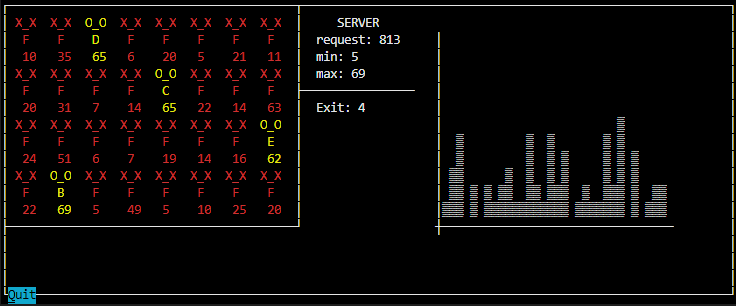
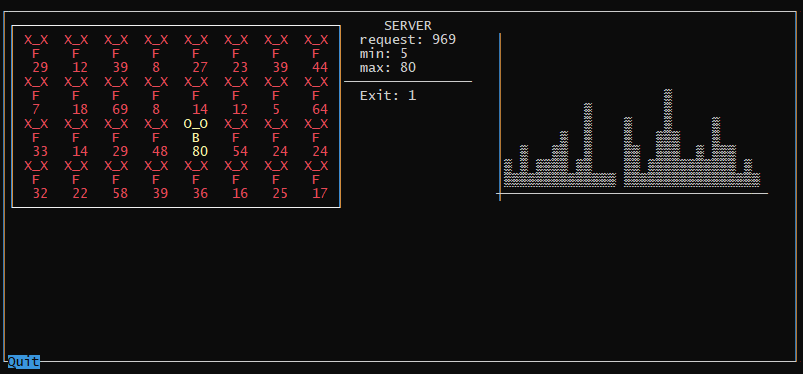
reduce screen flicker, fix resize

diff --git a/main.py b/main.py
@@ -1,5 +1,4 @@
 import curses
-import os
 from multiprocessing import Queue
 import signal
 import sys
@@ -28,76 +27,88 @@ class MainWindow:
         curses.init_pair(4, curses.COLOR_WHITE, curses.COLOR_BLUE)
         curses.curs_set(False)
         self.screen.nodelay(True)
+        self.createwin()
+
+        from base64 import b64decode
+        self.f_mesage = b64decode("UHJlc3MgRiB0byBQYXkgUmVzcGVjdHM=")
+
+    def createwin(self):
+        self.win = curses.newwin(5, 30, 5, 7)
+        self.win.bkgd(' ', curses.color_pair(4) | curses.A_BOLD)
+        self.clients = curses.newwin(14, 42, 1, 1)
+        self.clients.bkgd(' ', curses.color_pair(0) | curses.A_BOLD)
 
     def start(self):
+        curses.update_lines_cols()
+        line, cols = curses.LINES, curses.COLS
         char = 0
         exit_symbol = [81, 113, 176, 208, 70, 102, 192, 340]
         while char not in exit_symbol:
             char = self.screen.getch()
-            self.paint()
-            time.sleep(.1)
 
-            # All threads completed, close
-            if self.screen_buffer['F_status_count'] == 32:
-                self.f_window()
+            if not self.queue.empty():
+                self.screen_buffer = self.queue.get()
+
+            try:
+                self.paint()
+                self.clients_window()
+                # All threads completed, close
+                if self.screen_buffer['F_status_count'] == 32:
+                    self.f_window()
+            except curses.error:
+                pass
+
+            curses.update_lines_cols()
+            if curses.COLS != cols or curses.LINES != line:
+                line, cols = curses.LINES, curses.COLS
+                self.createwin()
+                self.screen.clear()
+                self.clients.clear()
+                self.win.clear()
+            else:
+                curses.doupdate()
+
+            time.sleep(.1)
 
         signal.alarm(1)
         time.sleep(1)
 
-    def f_window(self):
-        begin_x, begin_y = 6, 4
-        height, width = 5, 30
-        win = curses.newwin(height, width, begin_y, begin_x)
-        win.bkgd(' ', curses.color_pair(4) | curses.A_BOLD)
-        F_msg = "UHJlc3MgRiB0byBQYXkgUmVzcGVjdHM="
-        import base64
-        win.addstr(2, int(width / 2) - 12, base64.b64decode(F_msg), curses.color_pair(4))
-        win.border(0)
-        win.refresh()
-        self.screen.refresh()
+    def f_window(self, ):
+        self.win.addstr(2, 4, self.f_mesage, curses.color_pair(4))
+        self.win.border()
+        self.win.noutrefresh()
 
-    def paint(self):
-        if self.queue.empty():
-            return
-        self.screen_buffer = self.queue.get()
-
-        self.screen.clear()
-        self.screen.keypad(True)
-        self.screen.border()
-        curses.update_lines_cols()
-
-        # satatus processes
-        next_pos = 0
-        next_row = 0
+    def clients_window(self):
+        next_pos, next_row = 0, 0
         for i, clnt in enumerate(self.screen_buffer['clients']):
             X = 0 if self.screen_buffer['clients'][clnt]['count'] > 99 else 1
             if self.screen_buffer['clients'][clnt]['status'] == 'F':
-                self.screen.addstr(1 + next_row, 1 + next_pos, " X_X ", curses.color_pair(1))
-                self.screen.addstr(2 + next_row, 1 + next_pos,
-                                   f"  {self.screen_buffer['clients'][clnt]['status']}  ",
-                                   curses.color_pair(1))
-                self.screen.addstr(3 + next_row, X + next_pos,
-                                   f"  {self.screen_buffer['clients'][clnt]['count']}  ",
-                                   curses.color_pair(1))
+                self.clients.addstr(1 + next_row, 1 + next_pos, " X_X ", curses.color_pair(1))
+                self.clients.addstr(2 + next_row, 1 + next_pos,
+                                    f"  {self.screen_buffer['clients'][clnt]['status']}  ",
+                                    curses.color_pair(1))
+                self.clients.addstr(3 + next_row, X + next_pos,
+                                    f"  {self.screen_buffer['clients'][clnt]['count']}  ",
+                                    curses.color_pair(1))
             else:
-                self.screen.addstr(1 + next_row, 1 + next_pos, " O_O ", curses.color_pair(2))
-                self.screen.addstr(2 + next_row, 1 + next_pos,
-                                   f"  {self.screen_buffer['clients'][clnt]['status']}  ",
-                                   curses.color_pair(2))
-                self.screen.addstr(3 + next_row, X + next_pos,
-                                   f"  {self.screen_buffer['clients'][clnt]['count']}  ",
-                                   curses.color_pair(2))
+                self.clients.addstr(1 + next_row, 1 + next_pos, " O_O ", curses.color_pair(2))
+                self.clients.addstr(2 + next_row, 1 + next_pos,
+                                    f"  {self.screen_buffer['clients'][clnt]['status']}  ",
+                                    curses.color_pair(2))
+                self.clients.addstr(3 + next_row, X + next_pos,
+                                    f"  {self.screen_buffer['clients'][clnt]['count']}  ",
+                                    curses.color_pair(2))
 
             if (i+1) % 8 == 0:
                 next_pos = 0
                 next_row += 3
             else:
                 next_pos += 5
+        self.clients.border()
+        self.clients.noutrefresh()
 
-        self.screen.hline(13, 1, curses.ACS_HLINE, 41)
-        self.screen.hline(13, 0, curses.ACS_LTEE, 1)
-        self.screen.hline(13, 42, curses.ACS_LRCORNER, 1)
-        self.screen.vline(0, 42, curses.ACS_TTEE, 1)
+    def paint(self):
+        self.screen.keypad(True)
 
         # server statistics
         self.screen.vline(1, 42, curses.ACS_VLINE, 12)
@@ -116,7 +127,7 @@ class MainWindow:
         self.screen.hline(5, 42, curses.ACS_LTEE, 1)
         self.screen.hline(5, 43, curses.ACS_HLINE, 16)
 
-        self.screen.addstr(6, 45, f"Exit: { 32 - self.screen_buffer['F_status_count']}")
+        self.screen.addstr(6, 45, f"Exit: { 32 - self.screen_buffer['F_status_count']} ")
 
         # diagram
         self.screen.vline(2, 62, curses.ACS_VLINE, 11)
@@ -128,11 +139,13 @@ class MainWindow:
             value = round(self.screen_buffer['clients'][clnt]['count'] / height)
             self.screen.vline(1 + height - value, 63+i, curses.ACS_BOARD, value)
 
+        self.screen.border()
         # Show [Quit]
         self.screen.addstr(curses.LINES-1, 1, "Q", curses.color_pair(3) | curses.A_UNDERLINE)
         self.screen.addstr(curses.LINES-1, 2, "uit", curses.color_pair(3))
 
         self.screen.move(curses.LINES-1, 1)
+        self.screen.noutrefresh()
 
 
 def start_clients():
@@ -155,10 +168,8 @@ def handler(signum, frame):
 if __name__ == '__main__':
     signal.signal(signal.SIGINT, handler)
     signal.signal(signal.SIGALRM, handler)
-    print("PID:", os.getpid())
 
     queue = Queue()
-
     thread = Thread(target=start_server, args=(queue, ), daemon=True)
     thread.start()
     start_clients()
